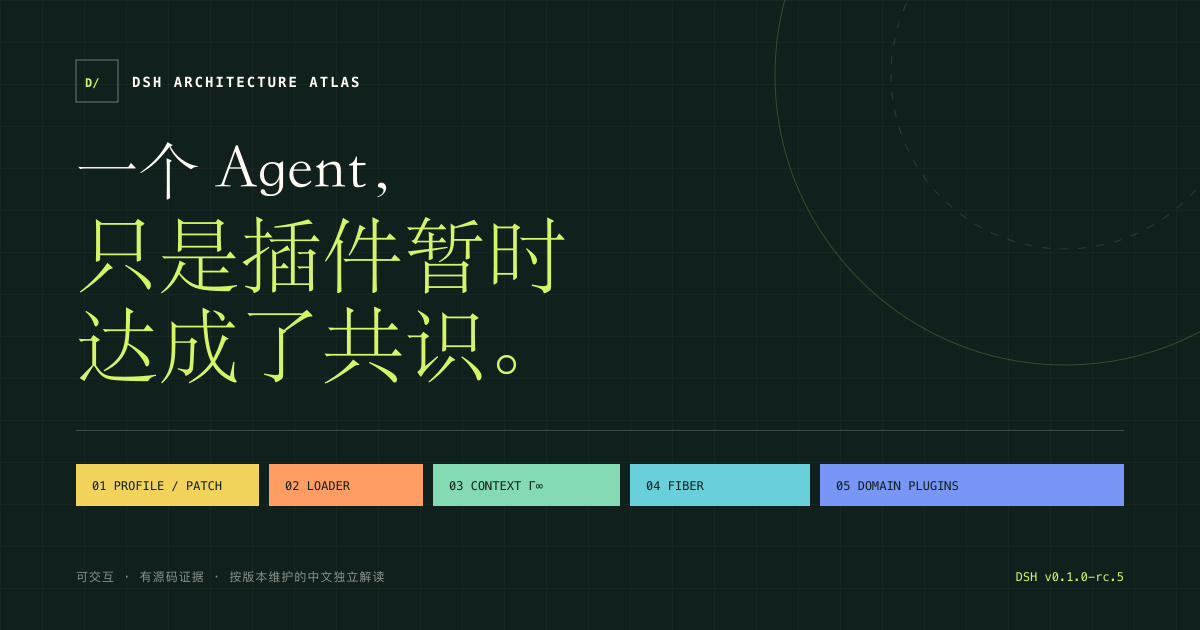
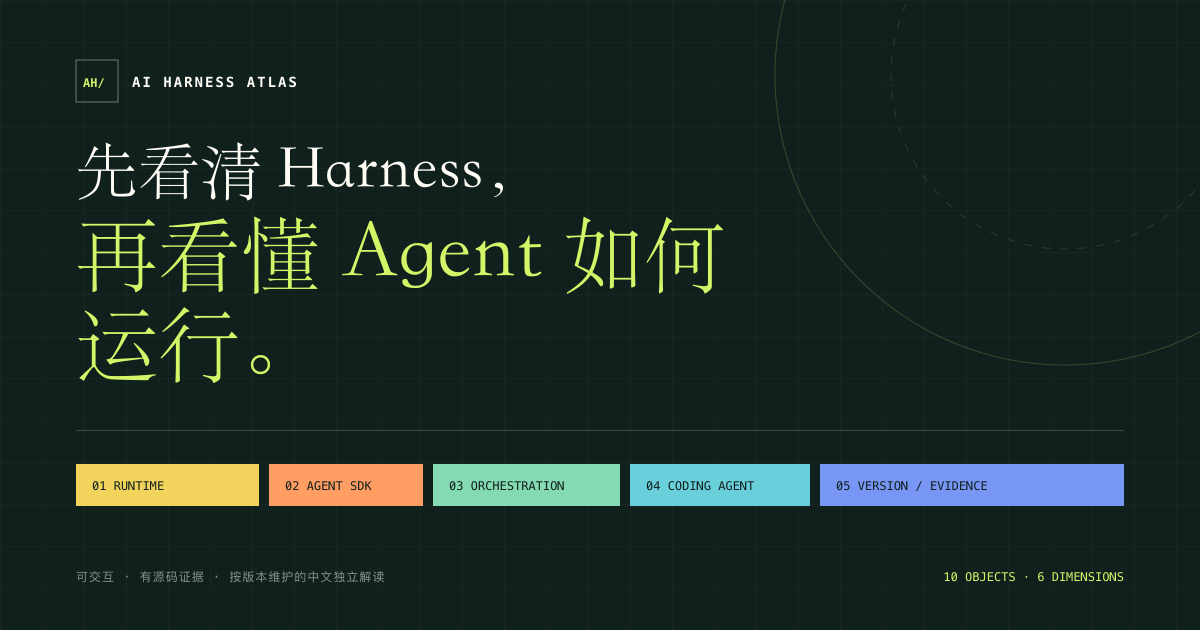
refactor: rename project to AI Harness Atlas

diff --git a/docs/dsh-0.1.0-rc.5/community.html b/docs/dsh-0.1.0-rc.5/community.html
@@ -78,7 +78,7 @@
         <section class="doc-section" id="channels">
           <h2>本轮覆盖的公开社区</h2>
           <div class="service-table-wrap"><table class="service-table community-source-table"><thead><tr><th>社区</th><th>最近扫描</th><th>当前快照</th><th>复查入口</th></tr></thead><tbody>
-            <tr><td>GitHub</td><td><time datetime="2026-08-14T05:48:32Z">2026-08-14 13:48:32 UTC+8</time></td><td>本轮未归档新讨论；本站线索队列暂为空</td><td><a href="https://github.com/search?q=%22DeepSeek+Harness%22&amp;type=issues" rel="noreferrer">查看搜索 ↗</a> · <a href="https://github.com/fieldnote-ops/dsh-architecture-atlas/issues?q=is%3Aissue%20label%3Acommunity-observation%20label%3Adsh-0.1.0-rc.5" rel="noreferrer">本站队列 ↗</a></td></tr>
+            <tr><td>GitHub</td><td><time datetime="2026-08-14T05:48:32Z">2026-08-14 13:48:32 UTC+8</time></td><td>本轮未归档新讨论；本站线索队列暂为空</td><td><a href="https://github.com/search?q=%22DeepSeek+Harness%22&amp;type=issues" rel="noreferrer">查看搜索 ↗</a> · <a href="https://github.com/fieldnote-ops/ai-harness-atlas/issues?q=is%3Aissue%20label%3Acommunity-observation%20label%3Adsh-0.1.0-rc.5" rel="noreferrer">本站队列 ↗</a></td></tr>
             <tr><td>知乎</td><td><time datetime="2026-08-14T05:48:32Z">2026-08-14 13:48:32 UTC+8</time></td><td>未发现可稳定核验的讨论</td><td><a href="https://www.zhihu.com/search?type=content&amp;q=%22DeepSeek%20Harness%22" rel="noreferrer">查看搜索 ↗</a></td></tr>
             <tr><td>X</td><td><time datetime="2026-08-14T05:48:32Z">2026-08-14 13:48:32 UTC+8</time></td><td>未发现可稳定核验的讨论</td><td><a href="https://x.com/search?q=%22DeepSeek%20Harness%22&amp;src=typed_query&amp;f=live" rel="noreferrer">查看搜索 ↗</a></td></tr>
             <tr><td>Reddit</td><td><time datetime="2026-08-14T05:48:32Z">2026-08-14 13:48:32 UTC+8</time></td><td>3 条当前观察窗口讨论已归档</td><td><a href="https://www.reddit.com/search/?q=%22DeepSeek%20Harness%22" rel="noreferrer">查看搜索 ↗</a></td></tr>
@@ -102,7 +102,7 @@
           <p>可以向这个独立解读项目提供来自 GitHub、知乎、X、Reddit 或其他公开社区的原始链接。提交时需要注明 DSH 版本、原帖时间和你认为它会影响哪一部分理解。</p>
           <div class="community-submit-panel">
             <div><strong>提交到本站的公开 GitHub Issue</strong><p>线索会公开显示，方便保留来源、时间和版本归属；这不是 DeepSeek Harness 官方支持渠道。</p></div>
-            <a class="button button-primary" href="https://github.com/fieldnote-ops/dsh-architecture-atlas/issues/new?template=community-observation.yml" rel="noreferrer">提供当前版本线索 ↗</a>
+            <a class="button button-primary" href="https://github.com/fieldnote-ops/ai-harness-atlas/issues/new?template=community-observation.yml" rel="noreferrer">提供当前版本线索 ↗</a>
           </div>
           <div class="doc-callout"><p><strong>请勿提交私密信息。</strong> 不要写入账号、Token、内部链接、个人信息、客户数据或未公开材料；安全问题也不应通过公开 Issue 披露。</p></div>
         </section>

diff --git a/index.html b/index.html
@@ -12,11 +12,11 @@
     <meta name="twitter:card" content="summary_large_image">
     <title>AI Harness Atlas｜AI Harness 观察图谱</title>
     <link rel="icon" href="assets/favicon.png" type="image/png">
-    <link rel="stylesheet" href="styles.css?v=20260814.11">
-    <script src="data/versions.js?v=20260814.11" defer></script>
-    <script src="data/atlas.js?v=20260814.11" defer></script>
-    <script src="atlas.js?v=20260814.11" defer></script>
-    <script src="app.js?v=20260814.11" defer></script>
+    <link rel="stylesheet" href="styles.css?v=20260814.12">
+    <script src="data/versions.js?v=20260814.12" defer></script>
+    <script src="data/atlas.js?v=20260814.12" defer></script>
+    <script src="atlas.js?v=20260814.12" defer></script>
+    <script src="app.js?v=20260814.12" defer></script>
   </head>
   <body>
     <a class="skip-link" href="#main">跳到正文</a>
@@ -391,7 +391,7 @@
           <p>本站是独立观察者，不是任何 Harness 项目官方。这里整理 GitHub、知乎、X、Reddit 等公开社区中能核验的讨论；每条记录保留来源链接、原帖日期、收录时间和版本关联状态。</p>
           <div class="community-actions">
             <a class="button button-primary" href="docs/dsh-0.1.0-rc.5/community.html" data-community-link>查看公开讨论观察 →</a>
-            <a class="button button-outline" id="community-submit-link" href="https://github.com/fieldnote-ops/dsh-architecture-atlas/issues/new?template=community-observation.yml" rel="noreferrer">向本站提供公开线索 ↗</a>
+            <a class="button button-outline" id="community-submit-link" href="https://github.com/fieldnote-ops/ai-harness-atlas/issues/new?template=community-observation.yml" rel="noreferrer">向本站提供公开线索 ↗</a>
           </div>
         </div>
         <aside class="community-snapshot reveal" aria-label="当前版本社区观察快照">
@@ -401,7 +401,7 @@
           </div>
           <ul class="community-channels" aria-label="覆盖社区"><li>GitHub</li><li>知乎</li><li>X</li><li>Reddit</li><li>其他公开来源</li></ul>
           <p>最近扫描：<time id="community-scan-time" datetime="2026-08-14T05:48:32Z">2026-08-14 13:48:32 UTC+8</time></p>
-          <a id="community-browse-link" href="https://github.com/fieldnote-ops/dsh-architecture-atlas/issues?q=is%3Aissue%20label%3Acommunity-observation%20label%3Adsh-0.1.0-rc.5" rel="noreferrer">查看本站公开线索队列 ↗</a>
+          <a id="community-browse-link" href="https://github.com/fieldnote-ops/ai-harness-atlas/issues?q=is%3Aissue%20label%3Acommunity-observation%20label%3Adsh-0.1.0-rc.5" rel="noreferrer">查看本站公开线索队列 ↗</a>
         </aside>
       </section>
 

diff --git a/data/versions.js b/data/versions.js
@@ -103,8 +103,8 @@ window.DSH_ATLAS = {
         keyword: "DeepSeek Harness",
         scanTime: "2026-08-14T05:48:32Z",
         scanTimeLabel: "2026-08-14 13:48:32 UTC+8",
-        submitUrl: "https://github.com/fieldnote-ops/dsh-architecture-atlas/issues/new?template=community-observation.yml",
-        browseUrl: "https://github.com/fieldnote-ops/dsh-architecture-atlas/issues?q=is%3Aissue%20label%3Acommunity-observation%20label%3Adsh-0.1.0-rc.5",
+        submitUrl: "https://github.com/fieldnote-ops/ai-harness-atlas/issues/new?template=community-observation.yml",
+        browseUrl: "https://github.com/fieldnote-ops/ai-harness-atlas/issues?q=is%3Aissue%20label%3Acommunity-observation%20label%3Adsh-0.1.0-rc.5",
         archivedCount: 3,
         incorporatedCount: 0
       },

diff --git a/README.md b/README.md
@@ -4,6 +4,8 @@
 
 本站不是任何 Harness 项目的官方文档，也不代表 DeepSeek、OpenAI、Anthropic、Google、Cline 或其他项目方。
 
+在线阅读：[AI Harness Atlas](https://fieldnote-ops.github.io/ai-harness-atlas/) · 仓库：[fieldnote-ops/ai-harness-atlas](https://github.com/fieldnote-ops/ai-harness-atlas)
+
 它试图回答一个具体问题：`Everything is a plugin` 在运行时究竟意味着什么？站点从 Profile / Bundle / Patch 开始，穿过 Loader、Cordis Context、Fiber 生命周期与领域服务，最后还原一次对话如何由一组可替换插件临时组成。
 
 DSH（DeepSeek Harness）是 DeepSeek AI 开源的 Agent Harness。简单说，模型负责判断下一步，而 Harness 负责把模型接到会话、上下文、工具、权限、沙箱、文件系统和界面，让这一步可执行、可追踪。官方仓库：[deepseek-ai/deepseek-harness](https://github.com/deepseek-ai/deepseek-harness)。
